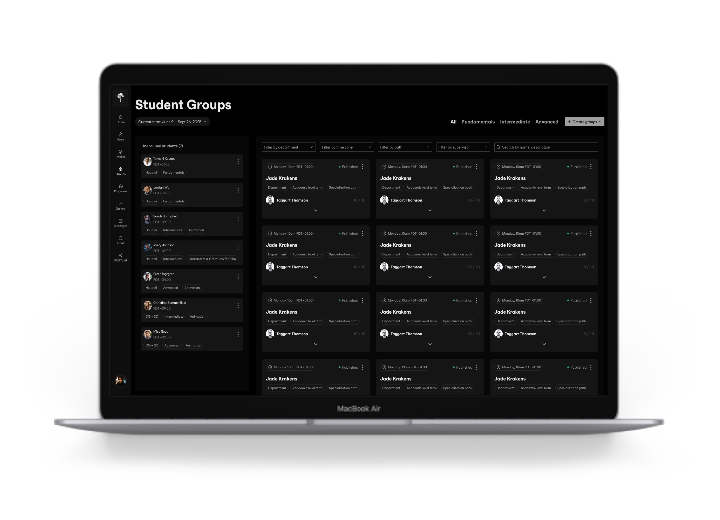
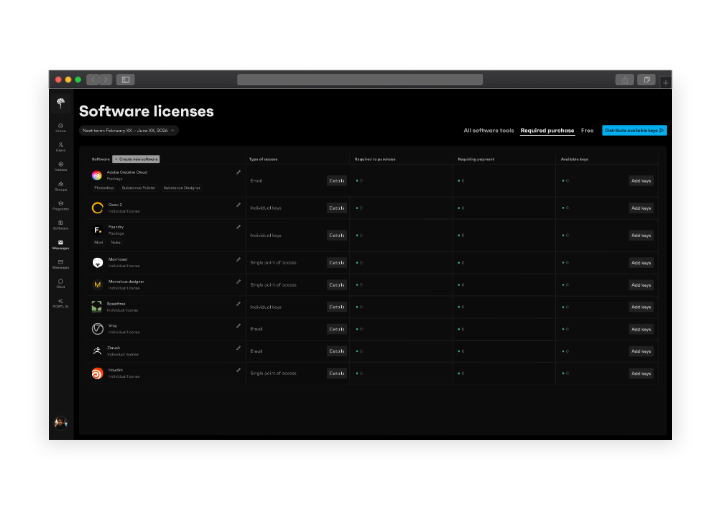
images

diff --git a/tttc-portl.html b/tttc-portl.html
@@ -81,10 +81,9 @@
 								</div>						
 							</div>
 						</div>
-						<div class="col-lg-6 col-xs-12 text-right">
-							<video class="app-video embed-responsive" src="images/work/portl-software-distribution/Software distribution.mp4" type="video/mp4" preload="auto" playsinline="" autoplay="" muted="" loop="">
-							</video>
-						</div>
+					<div class="col text-right">
+						<img src="images/work/portl-software-distribution/PORTL.png" alt="Think Tank Training centre portal" class="img-responsive"></a>
+					</div>
 					</div>
 				</div>	
 
@@ -245,7 +244,8 @@
 							<hr>
 						</div>
 						<div class="col-lg-6 col-md-12 col-sm-12 col-xs-12 align-self-top">
-							<h3>A feature that needs to fit within an existing ecosystem and established design patterns</h3>
+							<h3>Considering all moving parts</h3>
+							<p>A feature had to be implemented in certain order to align with the backend development milestones.</p>
 							<p>It was important to be in touch with the engineers to ensure seamless fit with the established backend logic.</p> 
 							
 						</div>
